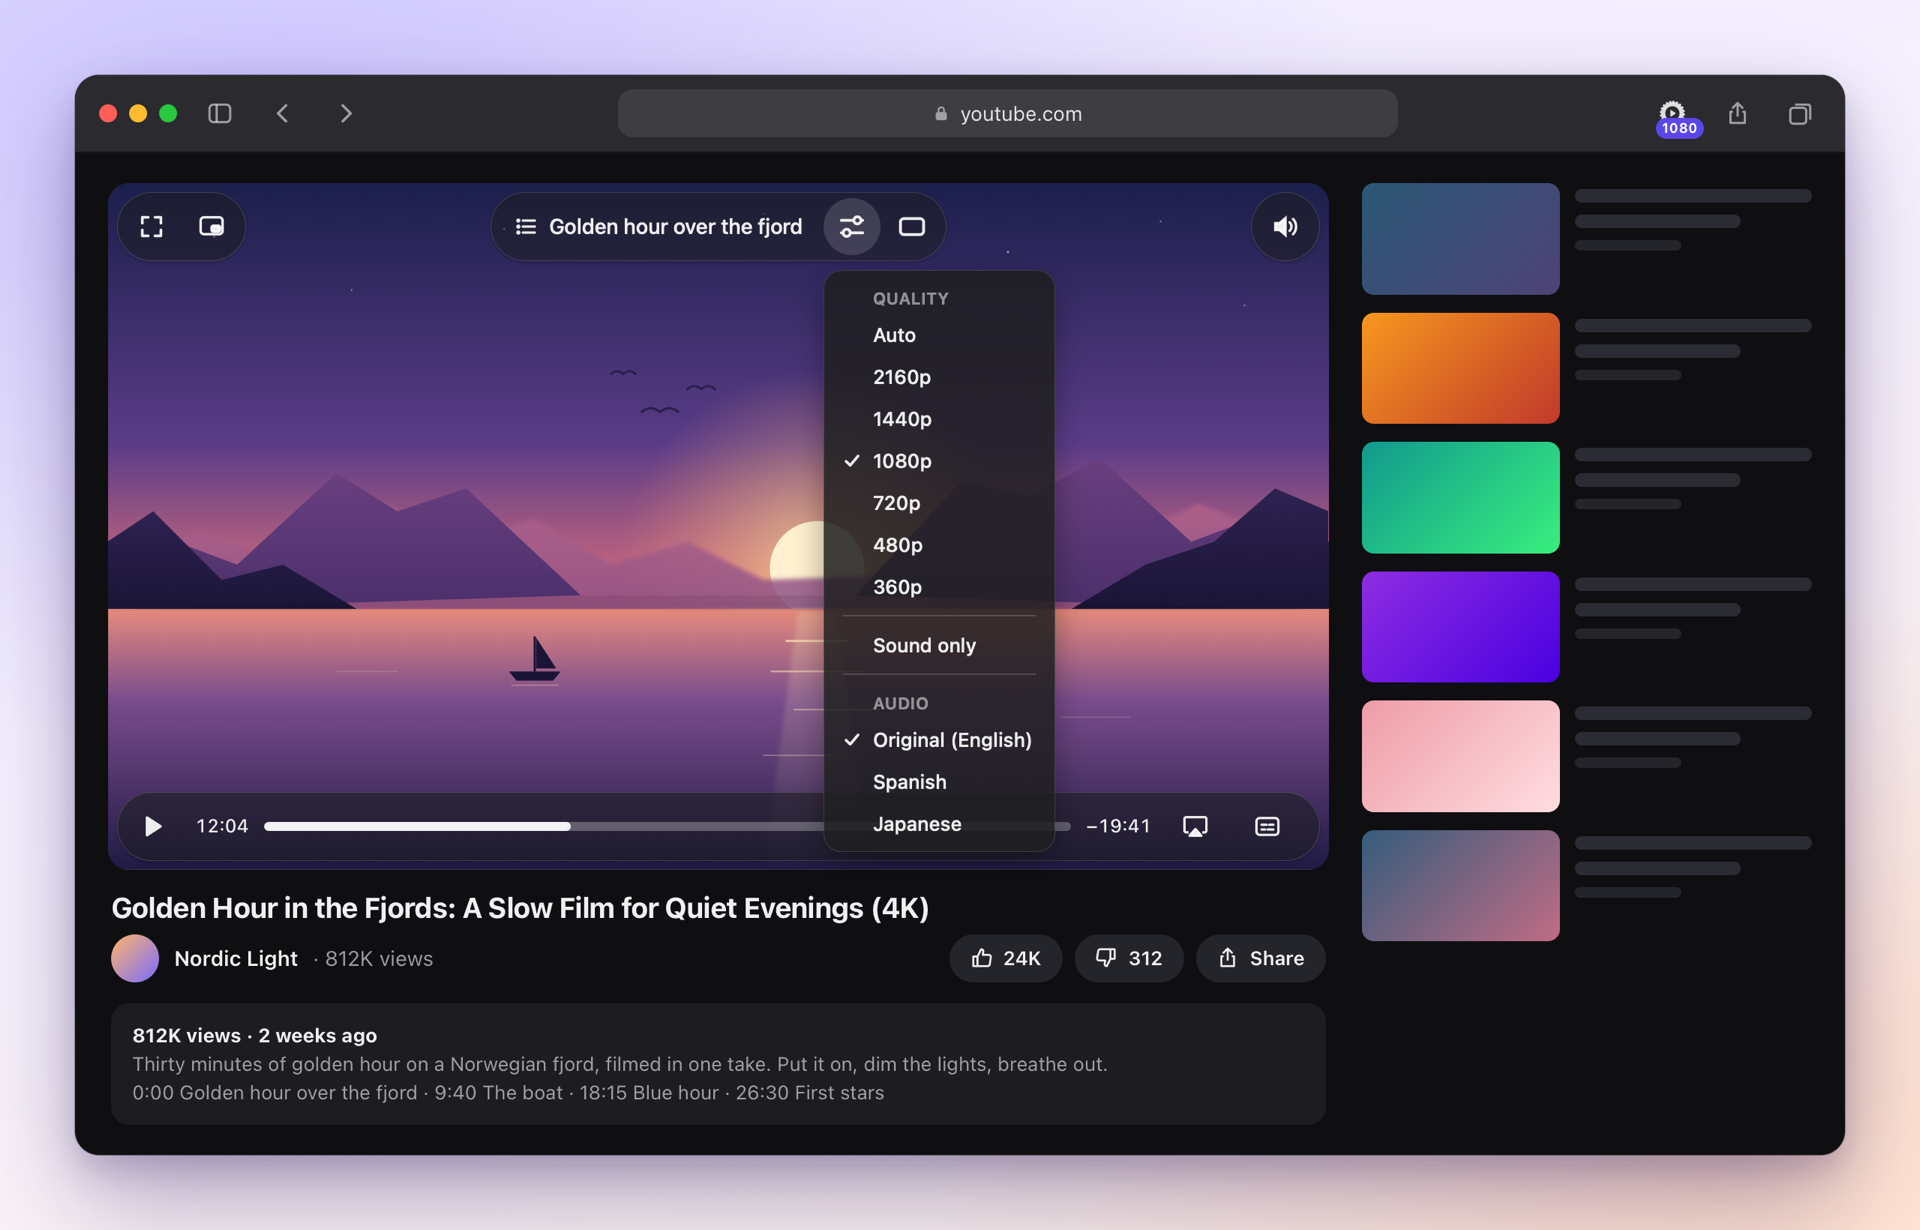
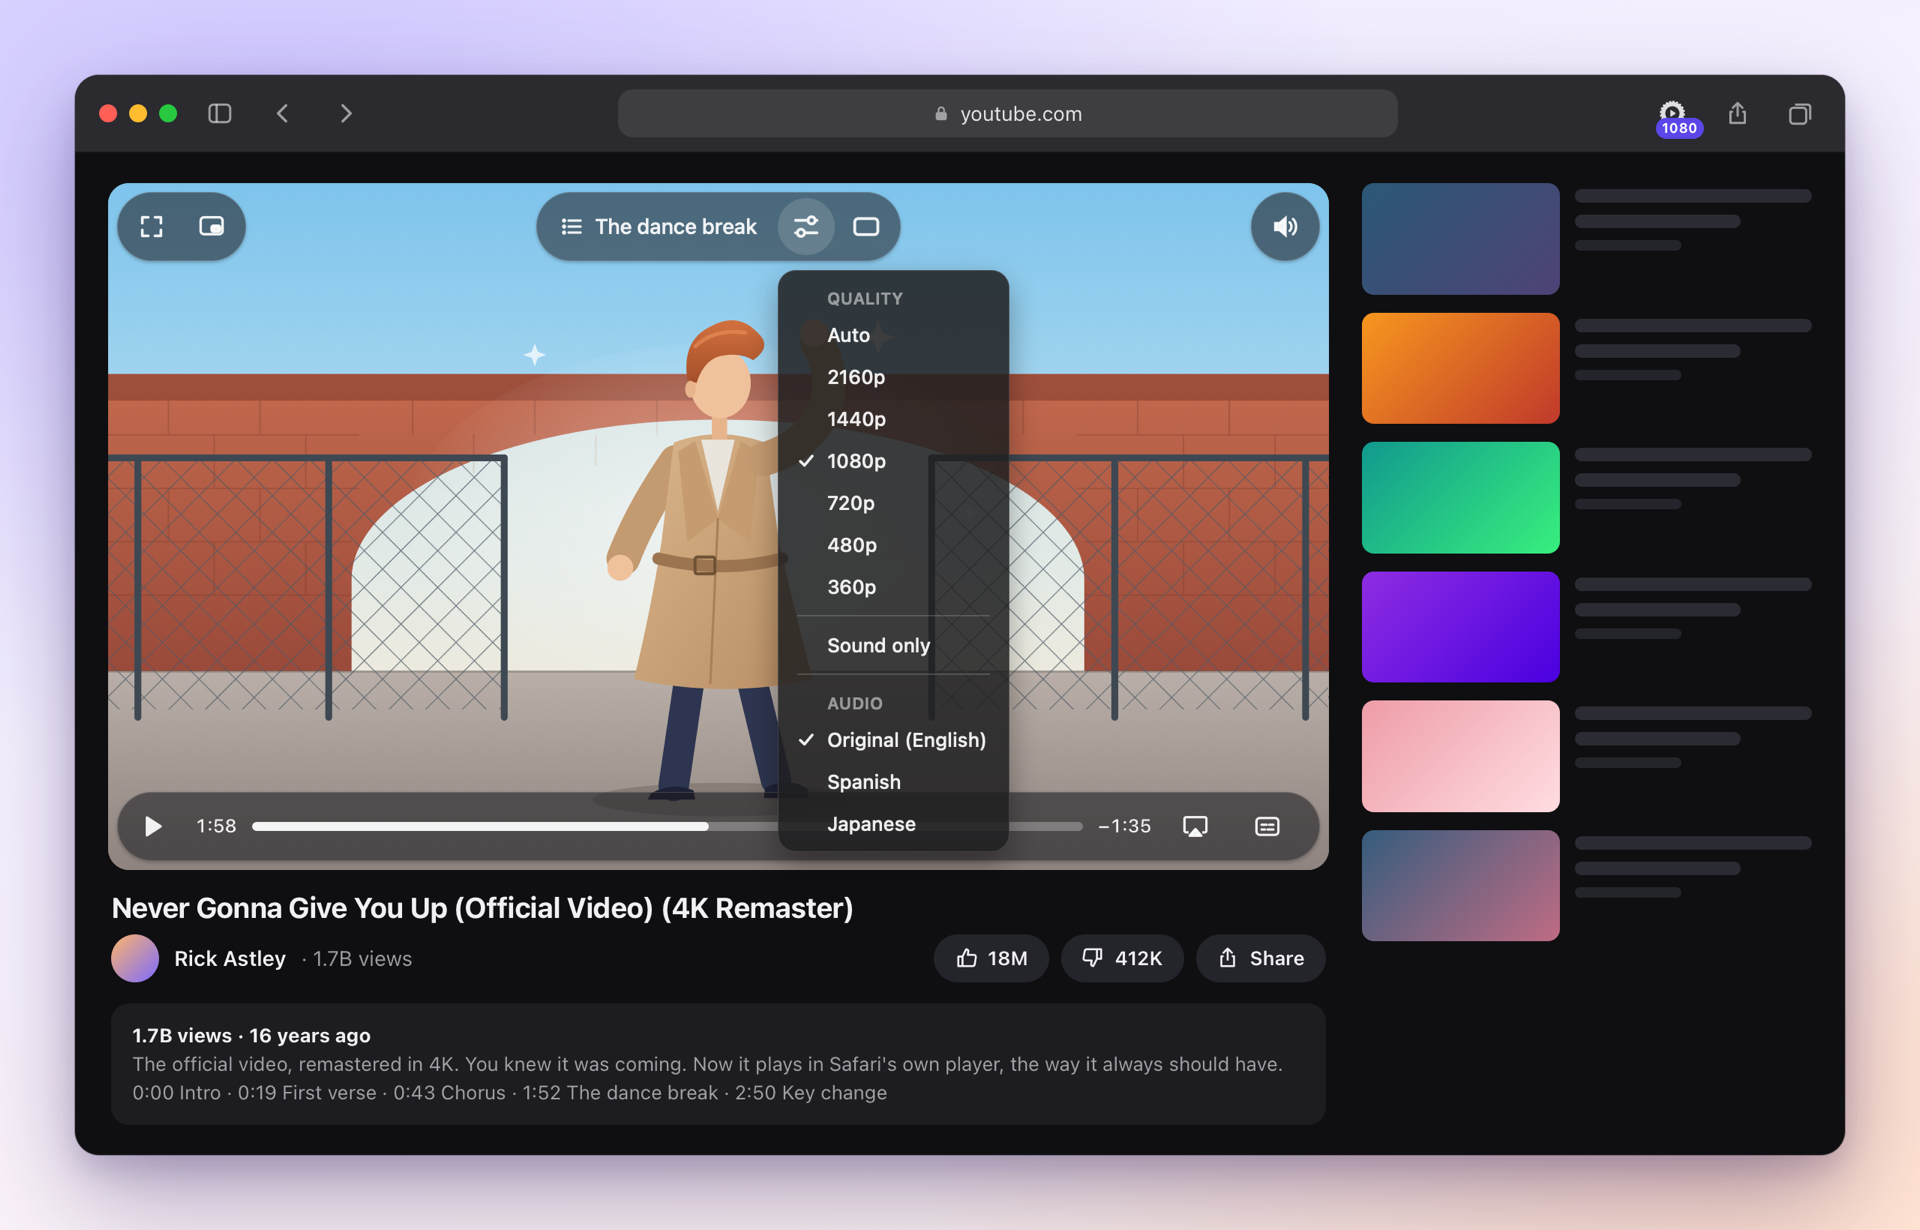
Rickroll the README screenshots
The mockups' video is now an illustrated 80s pop video in homage to Never
Gonna Give You Up: a stylized dancer in a trench coat in front of a
brick arch and chain-link fence, paused at the dance break.

diff --git a/design/mockups/mockup.js b/design/mockups/mockup.js
@@ -47,9 +47,9 @@ function nativeControls() {
     <div class="native top-right"><span class="b">${icon.sound}</span></div>
     <div class="native bar">
       <span class="b">${playing ? icon.pause : icon.play}</span>
-      <span>12:04</span>
+      <span>1:58</span>
       <span class="scrub"><i></i></span>
-      <span>−19:41</span>
+      <span>−1:35</span>
       <span class="b">${icon.airplay}</span>
       <span class="b">${icon.captions}</span>
     </div>`;
@@ -61,7 +61,7 @@ function spelareToolbar() {
     return `
     <div id="spelare-toolbar" class="visible">
       <div class="controls">
-        <button type="button" class="button chapters" aria-haspopup="menu" aria-expanded="false">Golden hour over the fjord</button>
+        <button type="button" class="button chapters" aria-haspopup="menu" aria-expanded="false">The dance break</button>
         <button type="button" class="button settings icon-only" aria-label="Settings" aria-haspopup="menu" aria-expanded="${menuOpen}"></button>
         <button type="button" class="button theater icon-only" aria-label="Theater mode"></button>
       </div>
@@ -128,13 +128,13 @@ document.body.innerHTML = `
           ${nativeControls()}
           ${spelareToolbar()}
         </div>
-        <div class="title">Golden Hour in the Fjords: A Slow Film for Quiet Evenings (4K)</div>
-        <div class="channel"><span class="avatar"></span><b>Nordic Light</b> · 812K views
-          <div class="actions"><span>${icon.like} 24K</span><span>${icon.dislike} 312</span><span>${icon.share} Share</span></div>
+        <div class="title">Never Gonna Give You Up (Official Video) (4K Remaster)</div>
+        <div class="channel"><span class="avatar"></span><b>Rick Astley</b> · 1.7B views
+          <div class="actions"><span>${icon.like} 18M</span><span>${icon.dislike} 412K</span><span>${icon.share} Share</span></div>
         </div>
-        <div class="description"><b>812K views · 2 weeks ago</b><br>
-          Thirty minutes of golden hour on a Norwegian fjord, filmed in one take. Put it on, dim the lights, breathe out.<br>
-          0:00 Golden hour over the fjord · 9:40 The boat · 18:15 Blue hour · 26:30 First stars</div>
+        <div class="description"><b>1.7B views · 16 years ago</b><br>
+          The official video, remastered in 4K. You knew it was coming. Now it plays in Safari's own player, the way it always should have.<br>
+          0:00 Intro · 0:19 First verse · 0:43 Chorus · 1:52 The dance break · 2:50 Key change</div>
       </div>
       <div class="side">${sideCards()}</div>
     </div>

diff --git a/design/mockups/mockup.css b/design/mockups/mockup.css
@@ -178,7 +178,7 @@ body {
 }
 .native .scrub i {
     display: block;
-    width: 38%;
+    width: 55%;
     height: 100%;
     border-radius: 3px;
     background: rgba(255, 255, 255, 0.92);

diff --git a/README.md b/README.md
@@ -14,7 +14,7 @@ your media keys working the way they should. No ads, and nothing to set up.
 
 Free, open source, and signed and notarized by Apple. Works on macOS 12 or later.
 
-<img src="design/screenshots/player.png" alt="A video playing in Safari's own player, with Spelare's controls at the top: the current chapter, Settings and Theater">
+<img src="design/screenshots/player.png" alt="Never Gonna Give You Up playing in Safari's own player, with Spelare's controls at the top: the current chapter, Settings and Theater">
 
 ## Why Spelare
 
